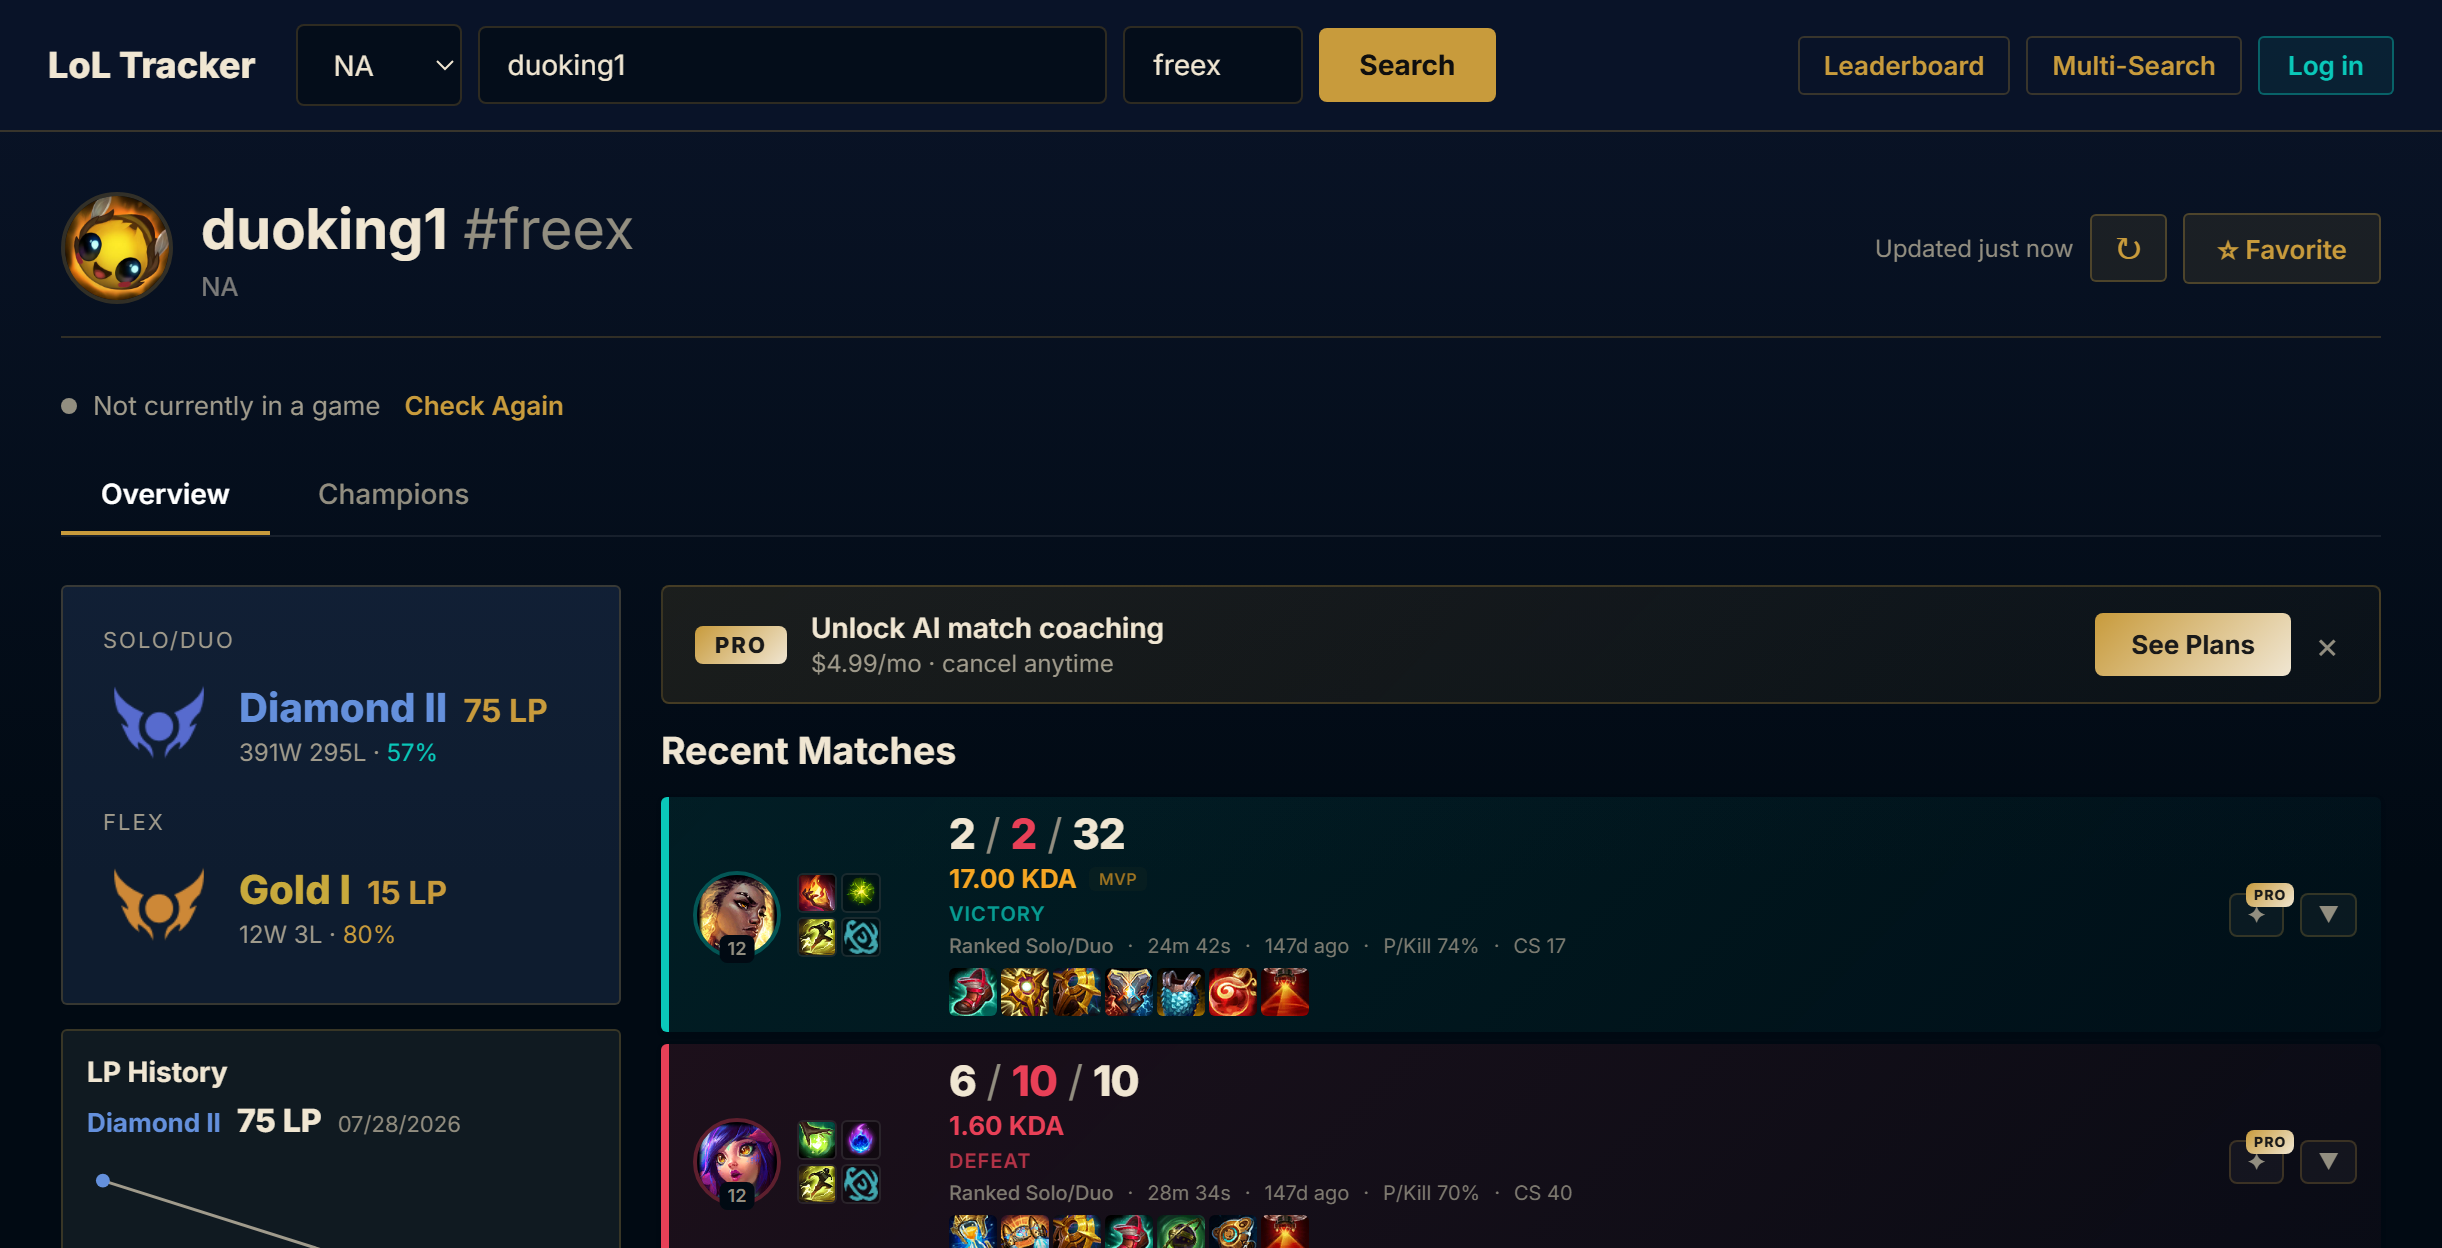
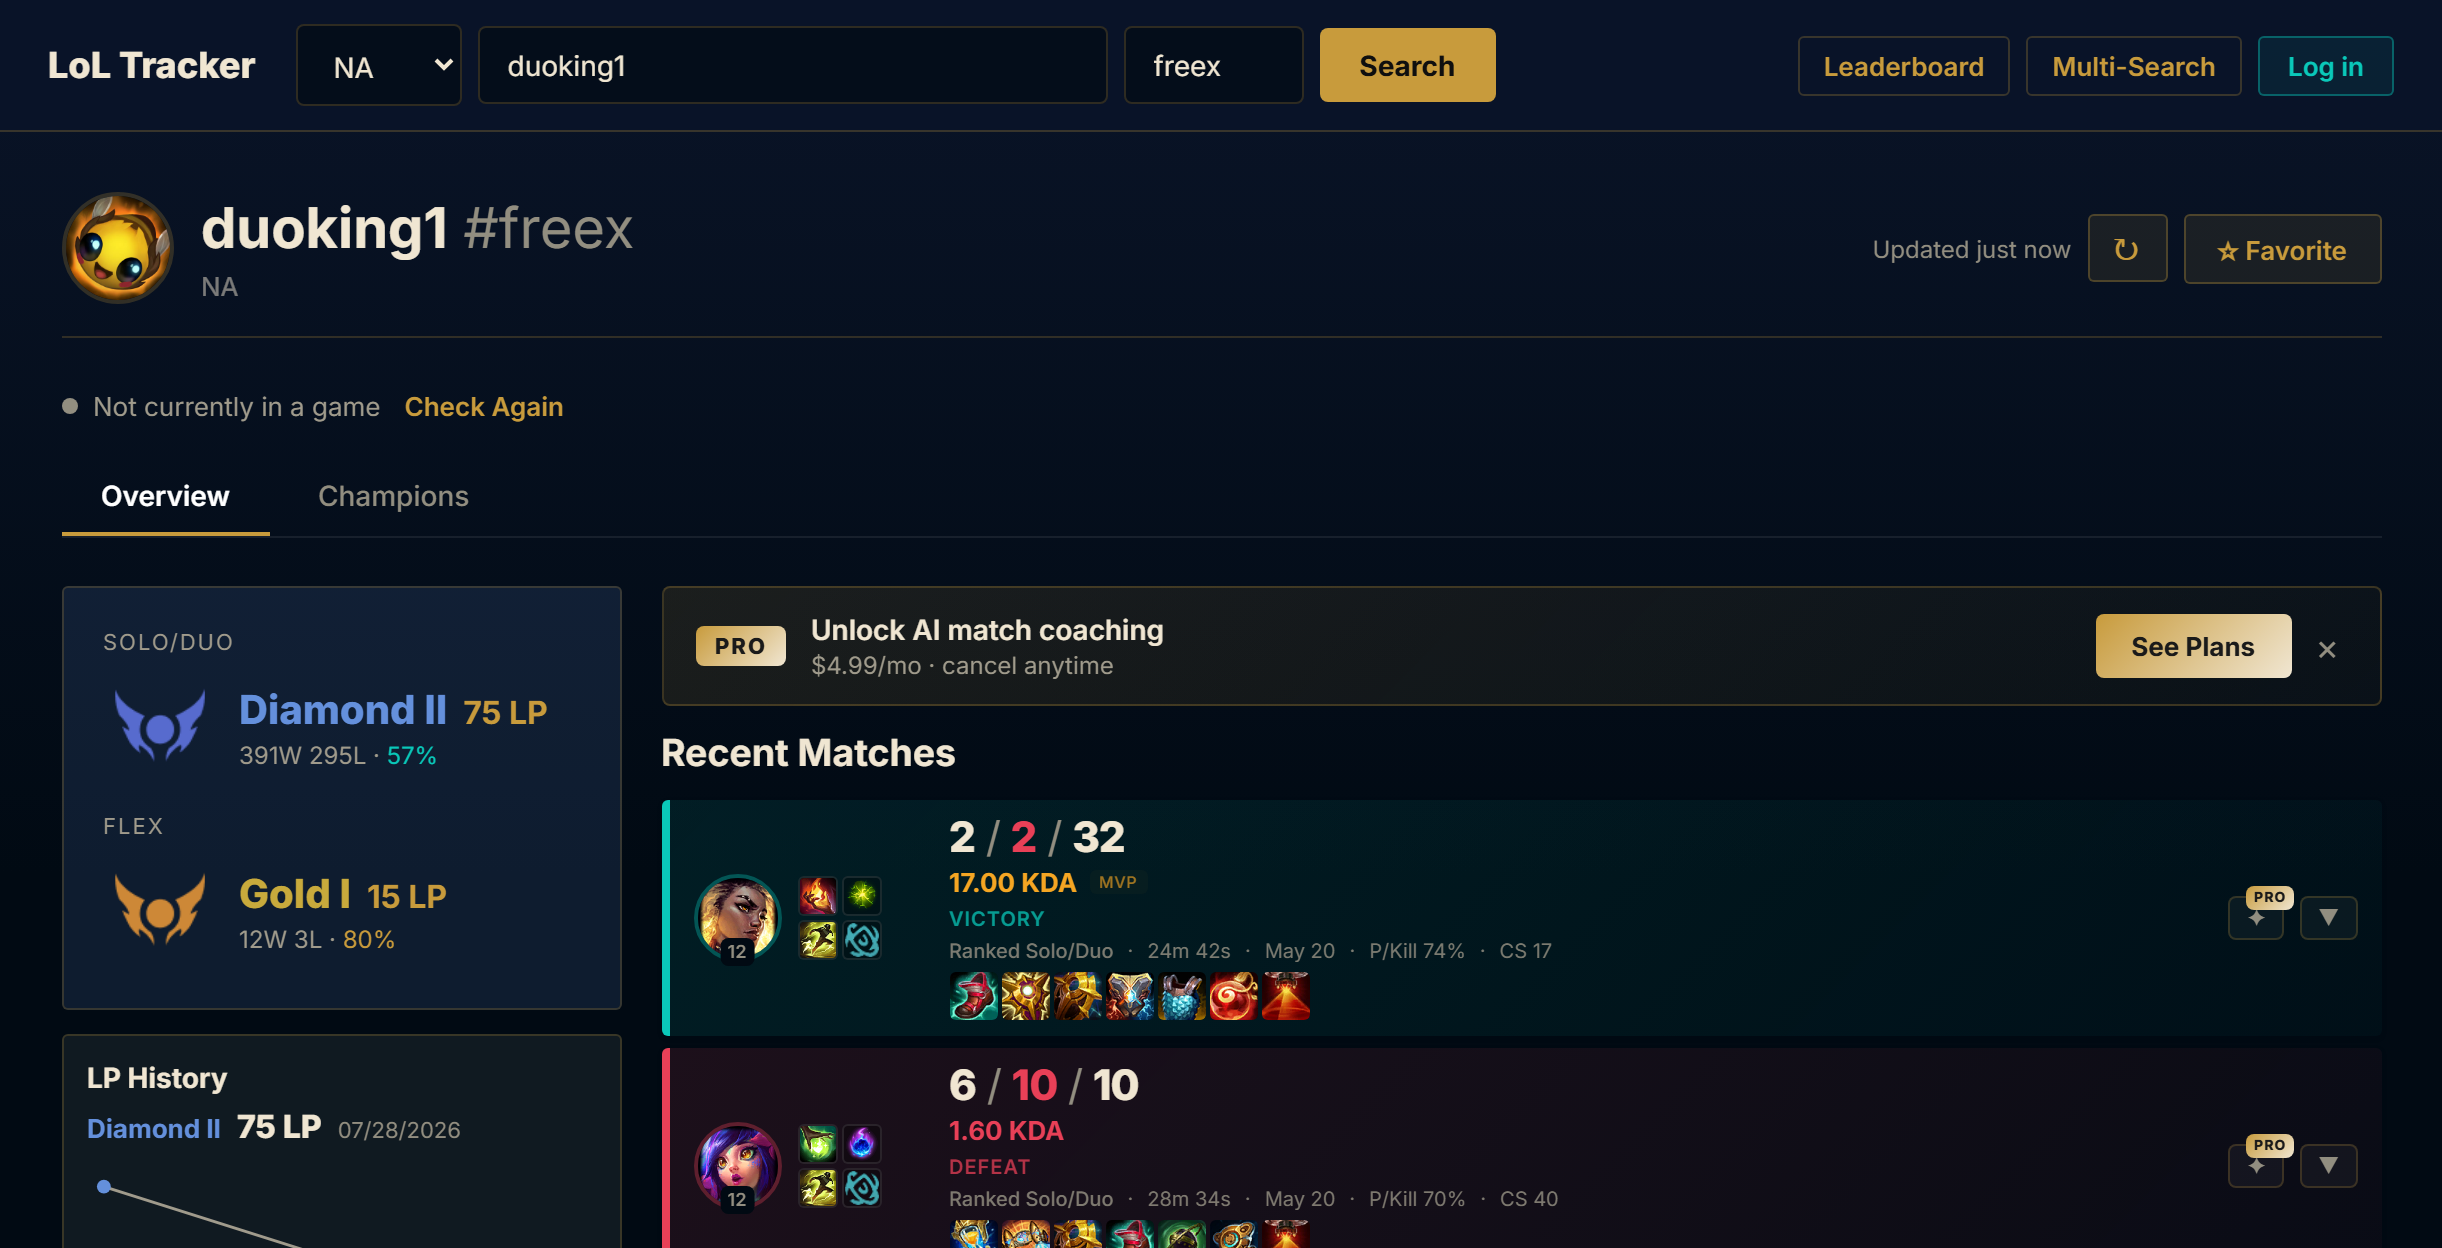
README screenshots: favorites, expanded match, LP chart, match page
- home: logged in, with the favorites row
- overview / match history: dates for older matches; the expanded
  scoreboard with Open match page / Copy link
- new: the redesigned LP chart and a match's own page

diff --git a/README.md b/README.md
@@ -29,7 +29,7 @@ A full-stack League of Legends stats site with AI match coaching: search any pla
 
 <table>
   <tr>
-    <td align="center"><b>Home</b></td>
+    <td align="center"><b>Home (logged in, with favorites)</b></td>
     <td align="center"><b>Overview</b></td>
   </tr>
   <tr>
@@ -54,6 +54,14 @@ A full-stack League of Legends stats site with AI match coaching: search any pla
       <img src="screenshots/login.png" alt="Login" width="220" />
       <img src="screenshots/pro-upgrade.png" alt="PRO Upgrade" width="200" />
     </td>
+  </tr>
+  <tr>
+    <td align="center"><b>LP Progression</b></td>
+    <td align="center"><b>Match Page</b></td>
+  </tr>
+  <tr>
+    <td><img src="screenshots/performance.png" alt="LP Progression" width="480" /></td>
+    <td><img src="screenshots/match-page.png" alt="Match Page" width="480" /></td>
   </tr>
   <tr>
     <td align="center"><b>Champions</b></td>
